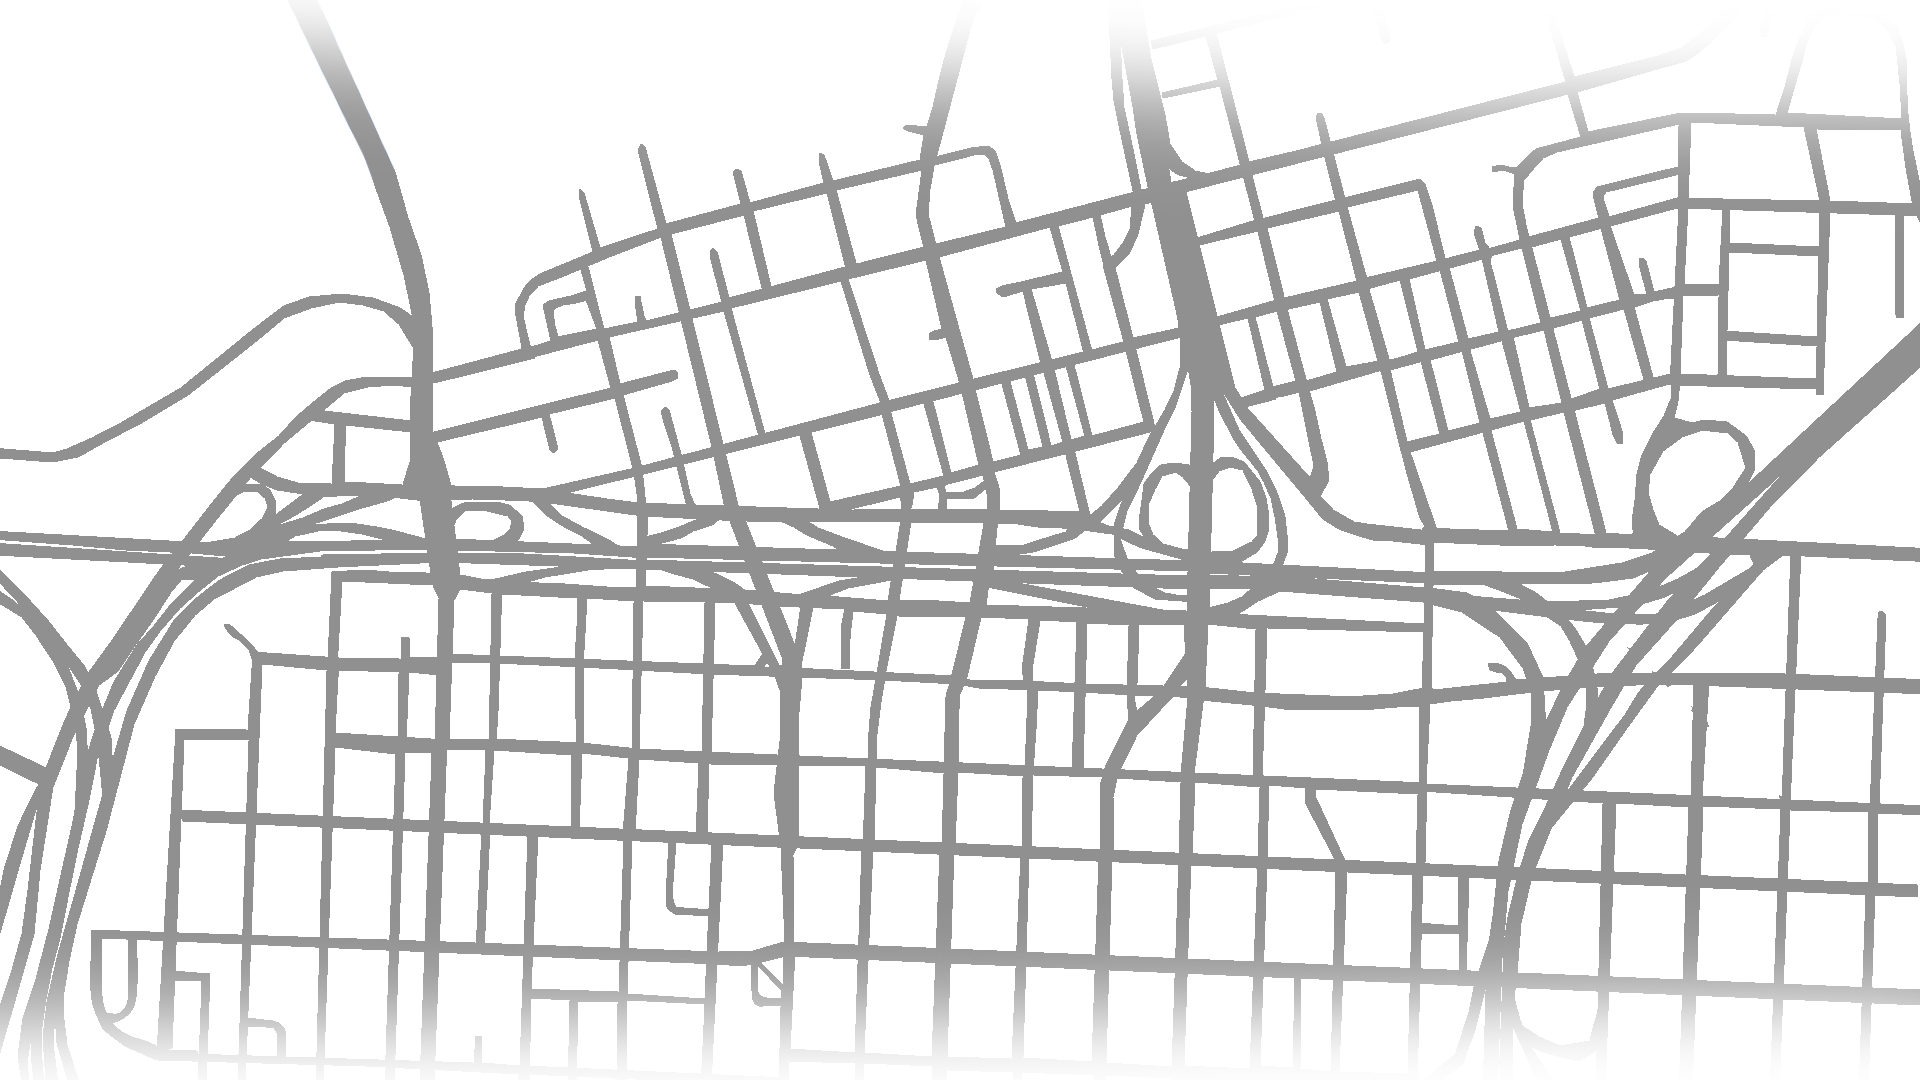
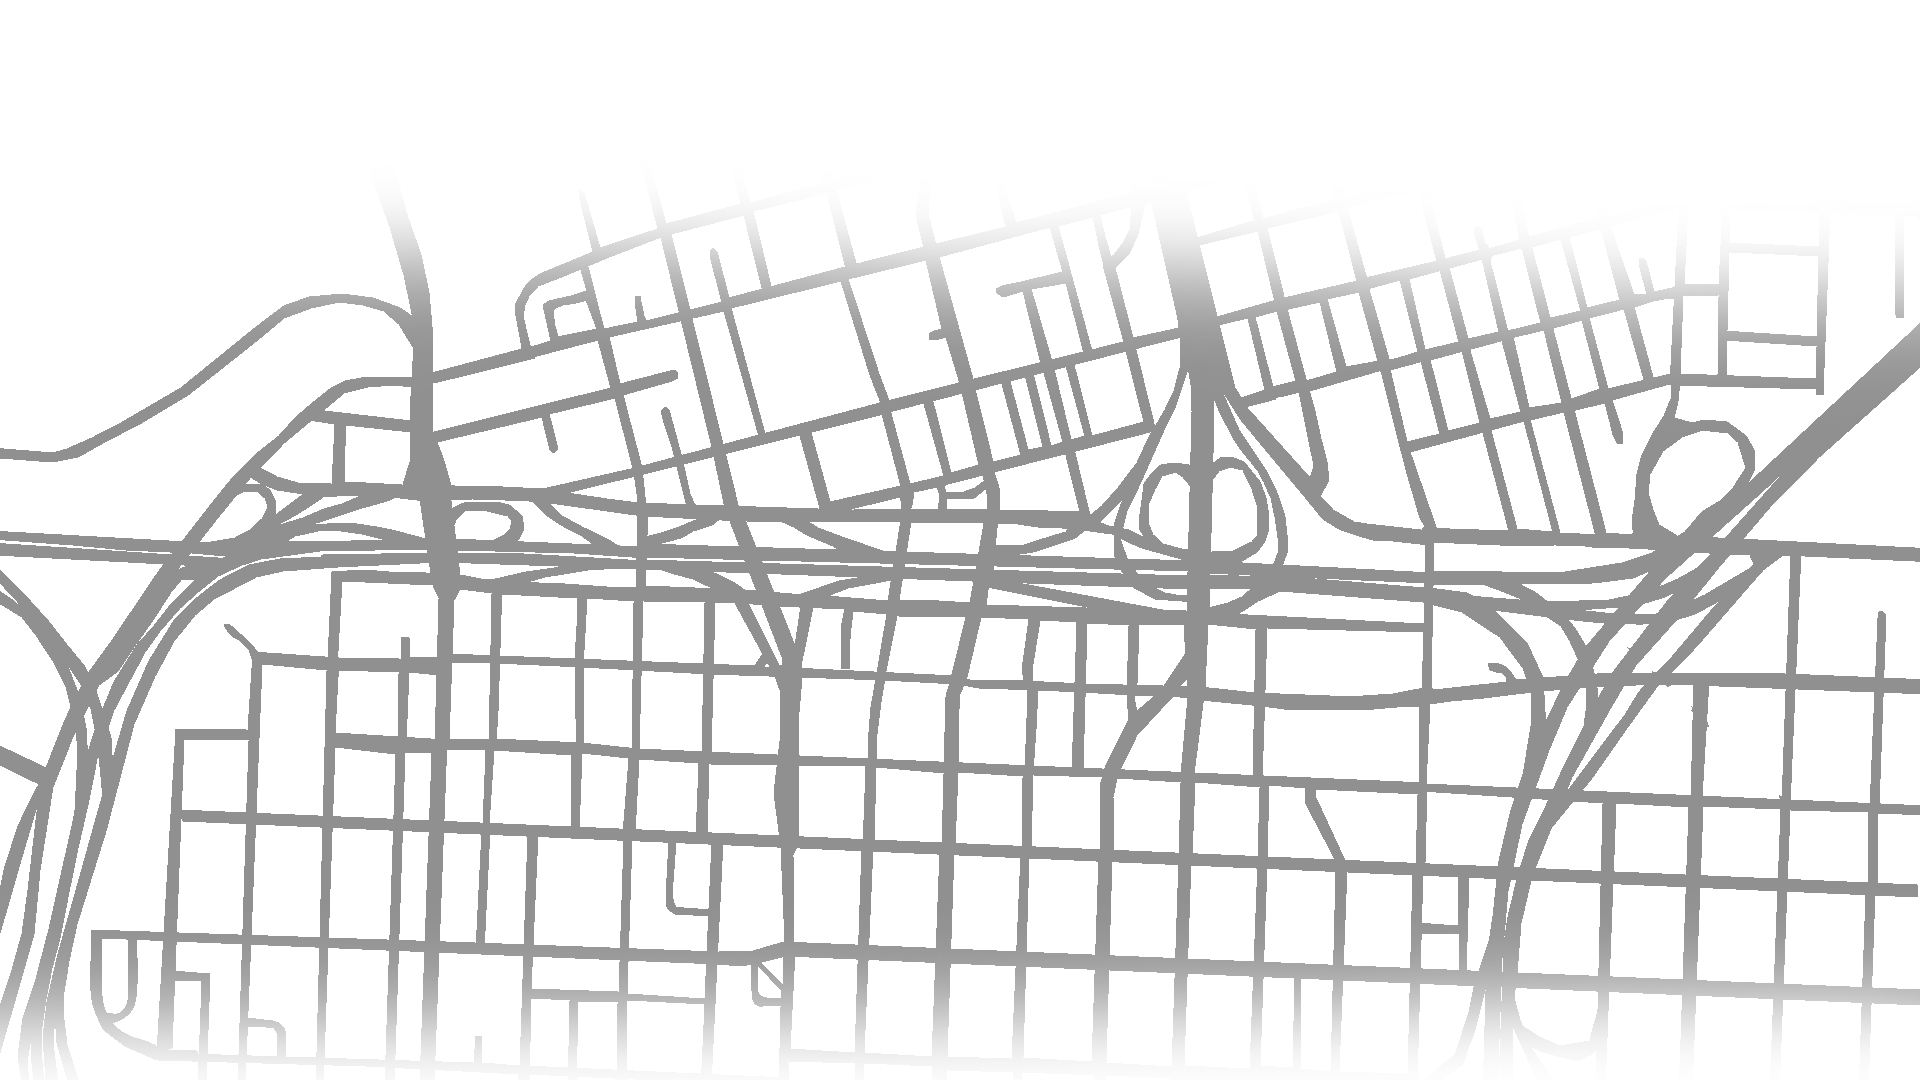
slight tweaks

Changed region(s): [[0.1562, 0.0306, 1.0, 0.3361]]

diff --git a/src/components/Home.css b/src/components/Home.css
@@ -53,6 +53,7 @@
 }
 
 .main-img {
+  position: relative;
   width: 100%; /* Add this to make sure the image covers the container */
   opacity: 0.5;
   margin-top: 0;
@@ -76,6 +77,7 @@
   position: absolute;
   top: 0;
   margin-top: 0px;
+  width: 100%;
 }
 
 .main-text-home {
